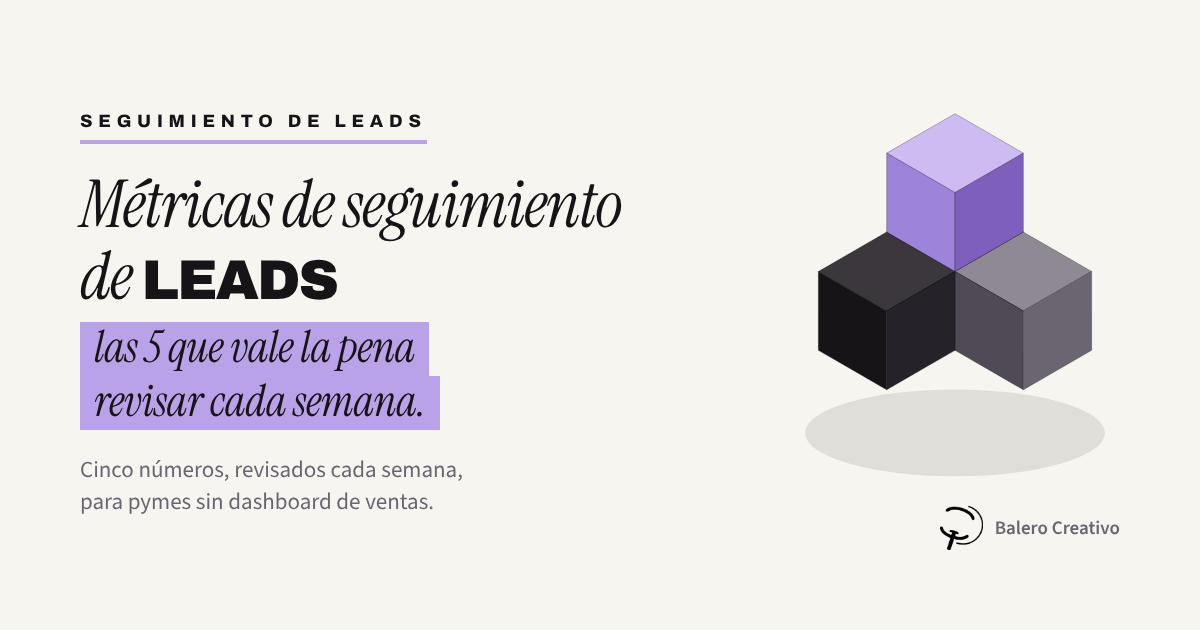
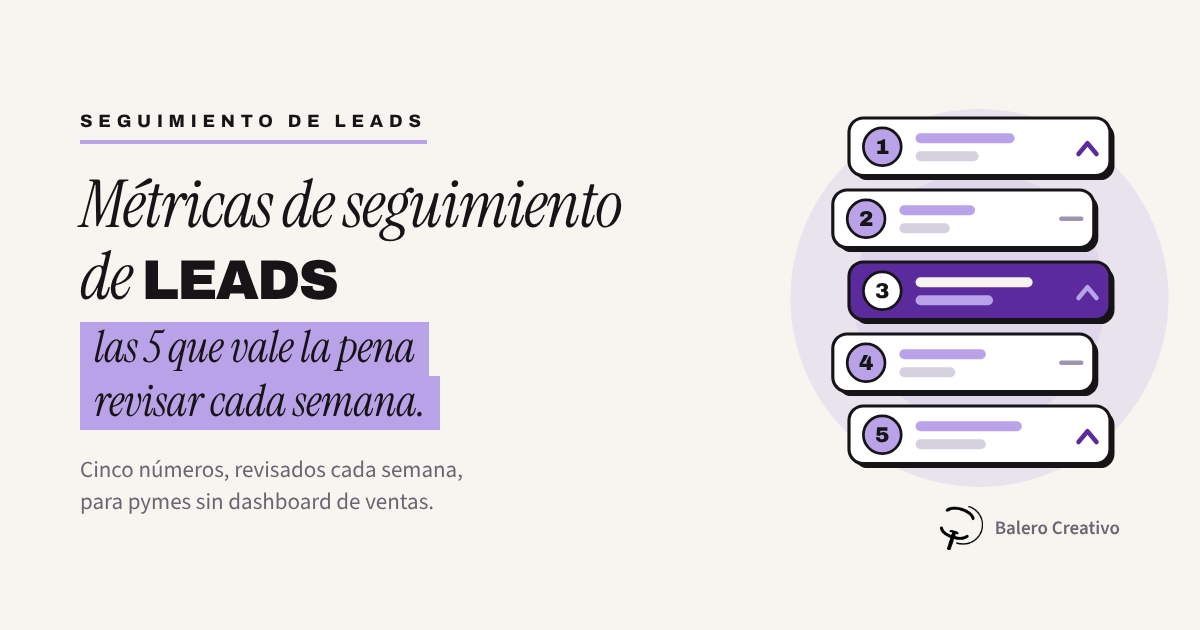
Replace cubes with numbered metric cards illustration
Claude-Session: https://claude.ai/code/session_01NTbbmrkatfc9dT5fY1rn6A

Changed region(s): [[0.6783, 0.181, 0.9558, 0.754]]

diff --git a/blog-images/metricas-seguimiento-leads-cubos.html b/blog-images/metricas-seguimiento-leads-cubos.html
@@ -21,7 +21,7 @@
   h1 .hl span{display:inline-block;background:var(--lila);color:var(--ink);padding:2px 14px 6px;font:italic 400 44px/1.05 'Instrument Serif',serif;letter-spacing:-.01em}
   h1 .hl span + span{margin-top:4px}
   .sub{margin-top:24px;width:540px;text-wrap:balance;font:400 23px/1.38 'Source Sans 3',sans-serif;color:var(--muted)}
-  #blocks{position:absolute;left:790px;top:110px;width:330px;height:370px}
+  #blocks{position:absolute;left:0;top:0;pointer-events:none}
   .brand{position:absolute;right:80px;bottom:80px;display:flex;align-items:center;gap:12px;font:600 19px/1 'Source Sans 3',sans-serif;color:var(--muted)}
   .brand img{height:44px}
 </style>
@@ -37,37 +37,52 @@
     </h1>
     <p class="sub">Cinco números, revisados cada semana, para pymes sin dashboard de ventas.</p>
   </div>
-  <svg id="blocks" viewBox="0 0 330 370"></svg>
+  <svg id="blocks" viewBox="0 0 1200 630" width="1200" height="630" xmlns="http://www.w3.org/2000/svg"><g transform="translate(-10 0) translate(1120 118) scale(.9) translate(-1120 -118)">
+  <circle cx="975" cy="318" r="210" fill="#B9A2E8" opacity=".22"/>
+  <circle cx="975" cy="318" r="140" fill="#B9A2E8" opacity=".18"/>
+  <g>
+  <rect x="835" y="123" width="290" height="64" rx="16" fill="#171417"/>
+  <rect x="830" y="118" width="290" height="64" rx="16" fill="#FFFFFF" stroke="#171417" stroke-width="3.5"/>
+  <circle cx="867" cy="150" r="21" fill="#B9A2E8" stroke="#171417" stroke-width="3"/>
+  <text x="867" y="158" text-anchor="middle" font-family="Archivo,sans-serif" font-weight="900" font-size="24" fill="#171417">1</text>
+  <rect x="904" y="135" width="110" height="11" rx="5.5" fill="#B9A2E8"/>
+  <rect x="904" y="155" width="70" height="11" rx="5.5" fill="#D6D1DE"/>
+  <path d="M1085 158 l10 -12 l10 12" fill="none" stroke="#5B2A9D" stroke-width="5" stroke-linecap="round" stroke-linejoin="round"/>
+</g><g>
+  <rect x="817" y="203" width="290" height="64" rx="16" fill="#171417"/>
+  <rect x="812" y="198" width="290" height="64" rx="16" fill="#FFFFFF" stroke="#171417" stroke-width="3.5"/>
+  <circle cx="849" cy="230" r="21" fill="#B9A2E8" stroke="#171417" stroke-width="3"/>
+  <text x="849" y="238" text-anchor="middle" font-family="Archivo,sans-serif" font-weight="900" font-size="24" fill="#171417">2</text>
+  <rect x="886" y="215" width="84" height="11" rx="5.5" fill="#B9A2E8"/>
+  <rect x="886" y="235" width="56" height="11" rx="5.5" fill="#D6D1DE"/>
+  <path d="M1066 230 h22" stroke="#9C95AB" stroke-width="5" stroke-linecap="round"/>
+</g><g>
+  <rect x="835" y="283" width="290" height="64" rx="16" fill="#171417"/>
+  <rect x="830" y="278" width="290" height="64" rx="16" fill="#5B2A9D" stroke="#171417" stroke-width="3.5"/>
+  <circle cx="867" cy="310" r="21" fill="#FFFFFF" stroke="#171417" stroke-width="3"/>
+  <text x="867" y="318" text-anchor="middle" font-family="Archivo,sans-serif" font-weight="900" font-size="24" fill="#171417">3</text>
+  <rect x="904" y="295" width="130" height="11" rx="5.5" fill="#F5F3EF"/>
+  <rect x="904" y="315" width="86" height="11" rx="5.5" fill="#B9A2E8"/>
+  <path d="M1085 318 l10 -12 l10 12" fill="none" stroke="#B9A2E8" stroke-width="5" stroke-linecap="round" stroke-linejoin="round"/>
+</g><g>
+  <rect x="817" y="363" width="290" height="64" rx="16" fill="#171417"/>
+  <rect x="812" y="358" width="290" height="64" rx="16" fill="#FFFFFF" stroke="#171417" stroke-width="3.5"/>
+  <circle cx="849" cy="390" r="21" fill="#B9A2E8" stroke="#171417" stroke-width="3"/>
+  <text x="849" y="398" text-anchor="middle" font-family="Archivo,sans-serif" font-weight="900" font-size="24" fill="#171417">4</text>
+  <rect x="886" y="375" width="96" height="11" rx="5.5" fill="#B9A2E8"/>
+  <rect x="886" y="395" width="62" height="11" rx="5.5" fill="#D6D1DE"/>
+  <path d="M1066 390 h22" stroke="#9C95AB" stroke-width="5" stroke-linecap="round"/>
+</g><g>
+  <rect x="835" y="443" width="290" height="64" rx="16" fill="#171417"/>
+  <rect x="830" y="438" width="290" height="64" rx="16" fill="#FFFFFF" stroke="#171417" stroke-width="3.5"/>
+  <circle cx="867" cy="470" r="21" fill="#B9A2E8" stroke="#171417" stroke-width="3"/>
+  <text x="867" y="478" text-anchor="middle" font-family="Archivo,sans-serif" font-weight="900" font-size="24" fill="#171417">5</text>
+  <rect x="904" y="455" width="118" height="11" rx="5.5" fill="#B9A2E8"/>
+  <rect x="904" y="475" width="78" height="11" rx="5.5" fill="#D6D1DE"/>
+  <path d="M1085 478 l10 -12 l10 12" fill="none" stroke="#5B2A9D" stroke-width="5" stroke-linecap="round" stroke-linejoin="round"/>
+</g>
+</g></svg>
   <div class="brand"><img src="assets/balero-isotipo-negro.png" alt=""><span>Balero Creativo</span></div>
 </div>
-<script>
-(function(){
-  const S=86, NS='http://www.w3.org/2000/svg', svg=document.getElementById('blocks');
-  const pal={
-    dark:{t:'#3B373D',l:'#171417',r:'#26222A'},
-    gray:{t:'#8E8993',l:'#4F4A55',r:'#6A6570'},
-    acc :{t:'#CDBBF2',l:'#9E83DB',r:'#7E5FBE'}
-  };
-  // 4 cubos: 3 en la base/oscuros y uno en lavanda arriba
-  const cubes=[[0,0,0,'dark'],[1,0,0,'gray'],[0,1,0,'dark'],[0,0,1,'acc']];
-  const P=(i,j,k)=>[(i-j)*S*.866,(i+j)*S*.5-k*S];
-  const g=document.createElementNS(NS,'g'); svg.appendChild(g);
-  const poly=(pts,fill)=>{const p=document.createElementNS(NS,'polygon');p.setAttribute('points',pts.map(a=>a.join(',')).join(' '));p.setAttribute('fill',fill);p.setAttribute('stroke','rgba(0,0,0,.28)');p.setAttribute('stroke-width','1');g.appendChild(p)};
-  const sh=document.createElementNS(NS,'ellipse');g.appendChild(sh);
-  cubes.sort((a,b)=>(a[0]+a[1]+a[2])-(b[0]+b[1]+b[2]));
-  cubes.forEach(([i,j,k,t])=>{
-    const c=pal[t],T=P(i,j,k+1),a=[T[0],T[1]-S*.5],b=[T[0]+S*.866,T[1]],d=[T[0],T[1]+S*.5],e=[T[0]-S*.866,T[1]];
-    poly([a,b,d,e],c.t);poly([e,d,[d[0],d[1]+S],[e[0],e[1]+S]],c.l);poly([d,b,[b[0],b[1]+S],[d[0],d[1]+S]],c.r);
-  });
-  // sombra elíptica bajo la base
-  const cubesBox=g.getBBox();
-  const base=P(0,0,0);
-  sh.setAttribute('cx',(P(1,0,0)[0]+P(0,1,0)[0])/2+0); sh.setAttribute('cy',P(1,1,0)[1]-S*.5+S+4);
-  sh.setAttribute('rx',S*1.9); sh.setAttribute('ry',S*.55); sh.setAttribute('fill','rgba(23,20,23,.10)');
-  g.insertBefore(sh,g.firstChild);
-  const bb=g.getBBox(), pad=4, sc=Math.min(330/(bb.width+pad*2),370/(bb.height+pad*2));
-  g.setAttribute('transform',`translate(${(330-bb.width*sc)/2-bb.x*sc},${(370-bb.height*sc)/2-bb.y*sc}) scale(${sc})`);
-})();
-</script>
 </body>
 </html>
